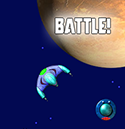
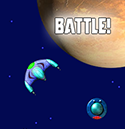
Tweaking the 'battle' button's placement in hires2x and 4x.

diff --git a/sc2/src/uqm/supermelee/melee.c b/sc2/src/uqm/supermelee/melee.c
@@ -886,7 +886,7 @@ DrawMeleeShipStrings (MELEE_STATE *pMS, MeleeShip NewStarShip)
 	OldContext = SetContext (StatusContext);
 	GetContextClipRect (&OldRect);
 	r = OldRect;
-	r.corner.x += ((SAFE_X << 1) - (32 << RESOLUTION_FACTOR)) + MENU_X_OFFS - RESOLUTION_FACTOR; // JMS_GFX
+	r.corner.x += ((SAFE_X << 1) - (32 << RESOLUTION_FACTOR)) + MENU_X_OFFS - RES_CASE(0,0,3); // JMS_GFX
 	r.corner.y += (76 << RESOLUTION_FACTOR) + 3 * RESOLUTION_FACTOR; // JMS_GFX
 	r.extent.height = SHIP_INFO_HEIGHT + 3; // JMS_GFX
 	SetContextClipRect (&r);
